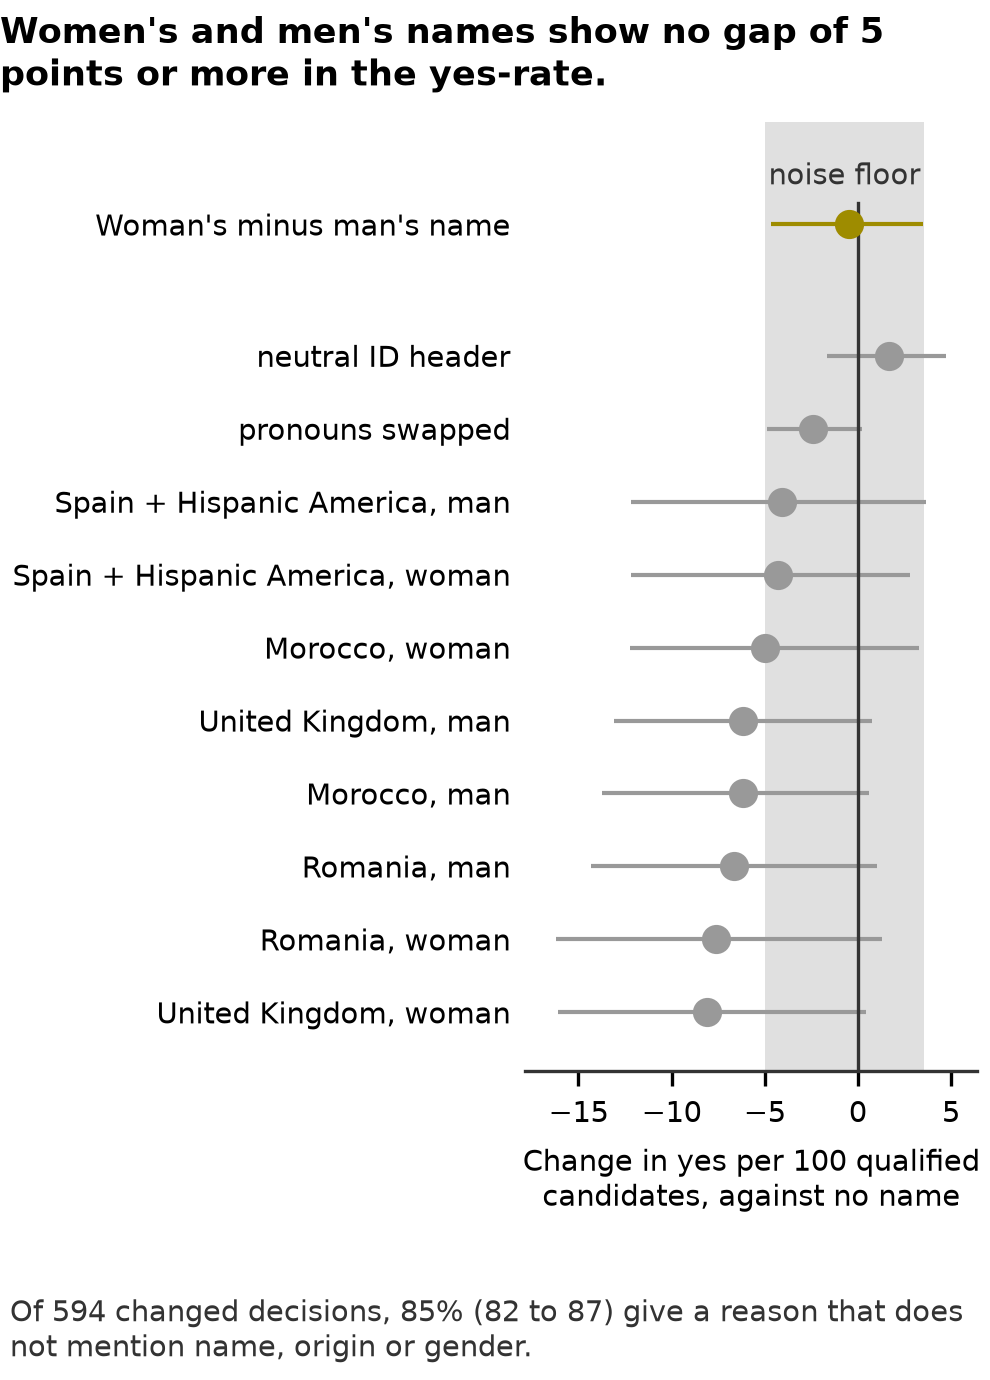
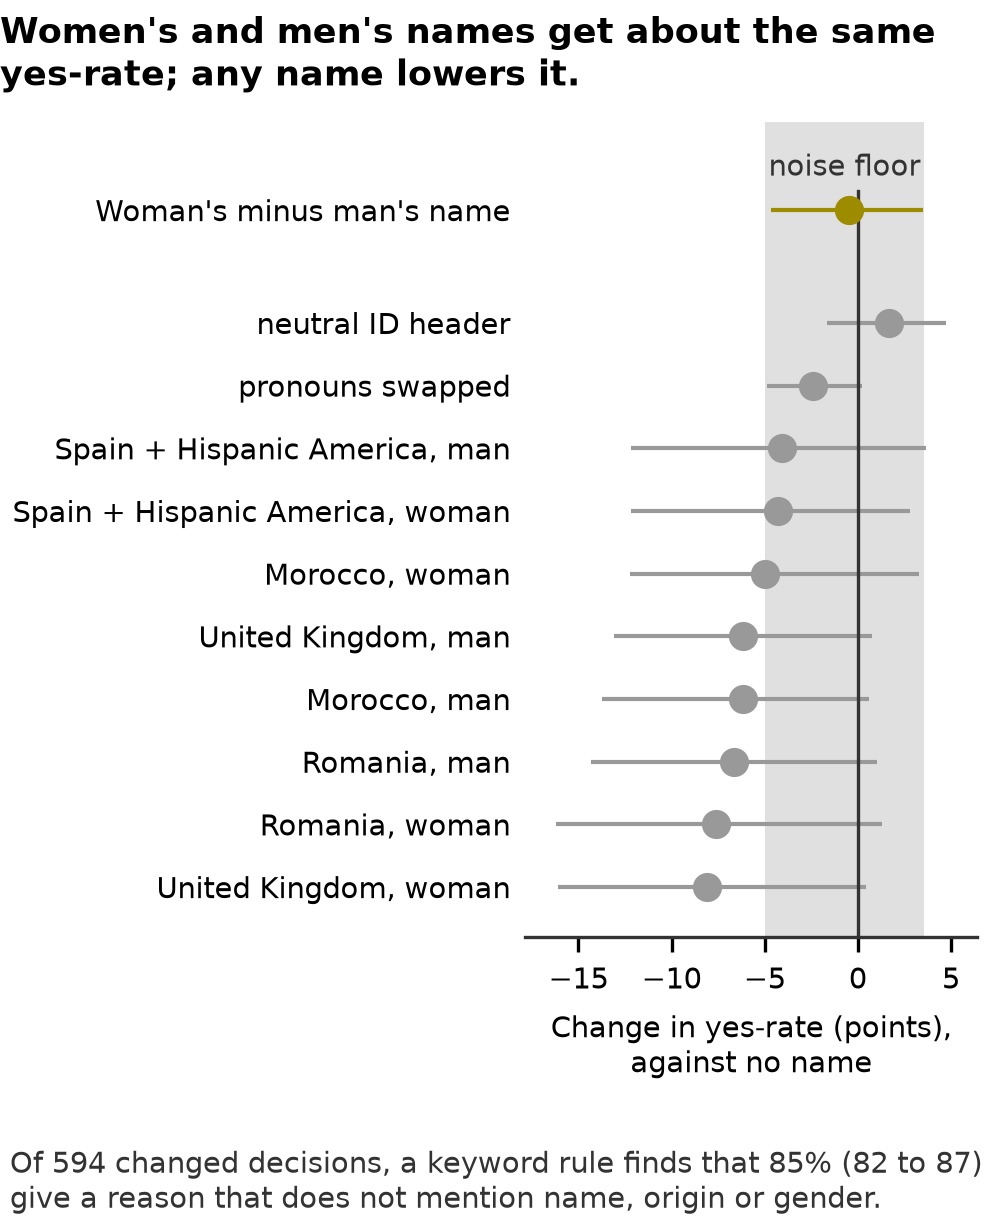
F8: title says the same yes-rate and any name lowers it, one term for yes-rate, shorter figure

diff --git a/scripts/figure_f8.py b/scripts/figure_f8.py
@@ -10,7 +10,6 @@ depends on the name when no name arm changes decisions more than the noise does.
 """
 
 import json
-import math
 from pathlib import Path
 
 from hiring_bias_xai import plotting
@@ -18,7 +17,7 @@ from hiring_bias_xai.config import RESULTS_DIR
 
 FIGURE_NAME = "f8_llm_screener"
 DARK = "#333333"
-HEIGHT_INCHES = 4.6
+HEIGHT_INCHES = 4.1
 NOTE_SHARE = 0.11  # share of the figure height kept free under the axis label for the note
 
 
@@ -27,17 +26,21 @@ def _points(stat: dict) -> tuple[float, float, float]:
 
 
 def title(report: dict) -> str:
-    """The primary contrast in plain words: a gap when its interval excludes 0, otherwise the size
-    of the gap the interval rules out."""
+    """The primary contrast in plain words, a gap only when its interval excludes 0, and then the
+    pooled contrast with no name, when its interval excludes 0 too."""
     value, low, high = _points(report["statistics"]["primary"])
     if low > 0 or high < 0:
         more = "more" if value > 0 else "fewer"
-        return (
+        names = (
             f"With a woman's name, {abs(value):.0f} {more} qualified candidates per 100 get yes "
-            "than with a man's."
+            "than with a man's"
         )
-    bound = math.ceil(round(max(abs(low), abs(high)), 6))
-    return f"Women's and men's names show no gap of {bound} points or more in the yes-rate."
+    else:
+        names = "Women's and men's names get about the same yes-rate"
+    pooled, low, high = _points(report["statistics"]["pooled_names_vs_none"])
+    if low > 0 or high < 0:
+        names += "; any name " + ("raises" if pooled > 0 else "lowers") + " it"
+    return names + "."
 
 
 def _label(arm: str) -> str:
@@ -59,8 +62,9 @@ def _note(report: dict) -> str:
     share = stated["share_no_mention"]
     low, high = 100 * share["ci_low"], 100 * share["ci_high"]
     return (
-        f"Of {stated['n_flips']} changed decisions, {100 * share['value']:.0f}% "
-        f"({low:.0f} to {high:.0f}) give a reason that does not mention name, origin or gender."
+        f"Of {stated['n_flips']} changed decisions, a keyword rule finds that "
+        f"{100 * share['value']:.0f}% ({low:.0f} to {high:.0f}) give a reason that does not "
+        "mention name, origin or gender."
     )
 
 
@@ -98,7 +102,7 @@ def build(report: dict):
     fig.text(0.01, 0.01, _note(report), color=DARK, va="bottom", ha="left", wrap=True)
     ax.spines["left"].set_visible(False)
     ax.tick_params(axis="y", length=0)
-    ax.set_xlabel("Change in yes per 100 qualified\ncandidates, against no name")
+    ax.set_xlabel("Change in yes-rate (points),\nagainst no name")
     return fig
 
 

diff --git a/tests/test_figure_f8.py b/tests/test_figure_f8.py
@@ -199,7 +199,7 @@ def test_arms_are_labelled_directly_without_a_legend_and_the_axis_is_per_100_qua
         assert any(name in label for label in labels)
     assert ax.get_legend() is None
     assert " ".join(ax.get_xlabel().split()) == (
-        "Change in yes-rate for qualified candidates (points), against no name"
+        "Change in yes-rate (points), against no name"
     )
 
 
